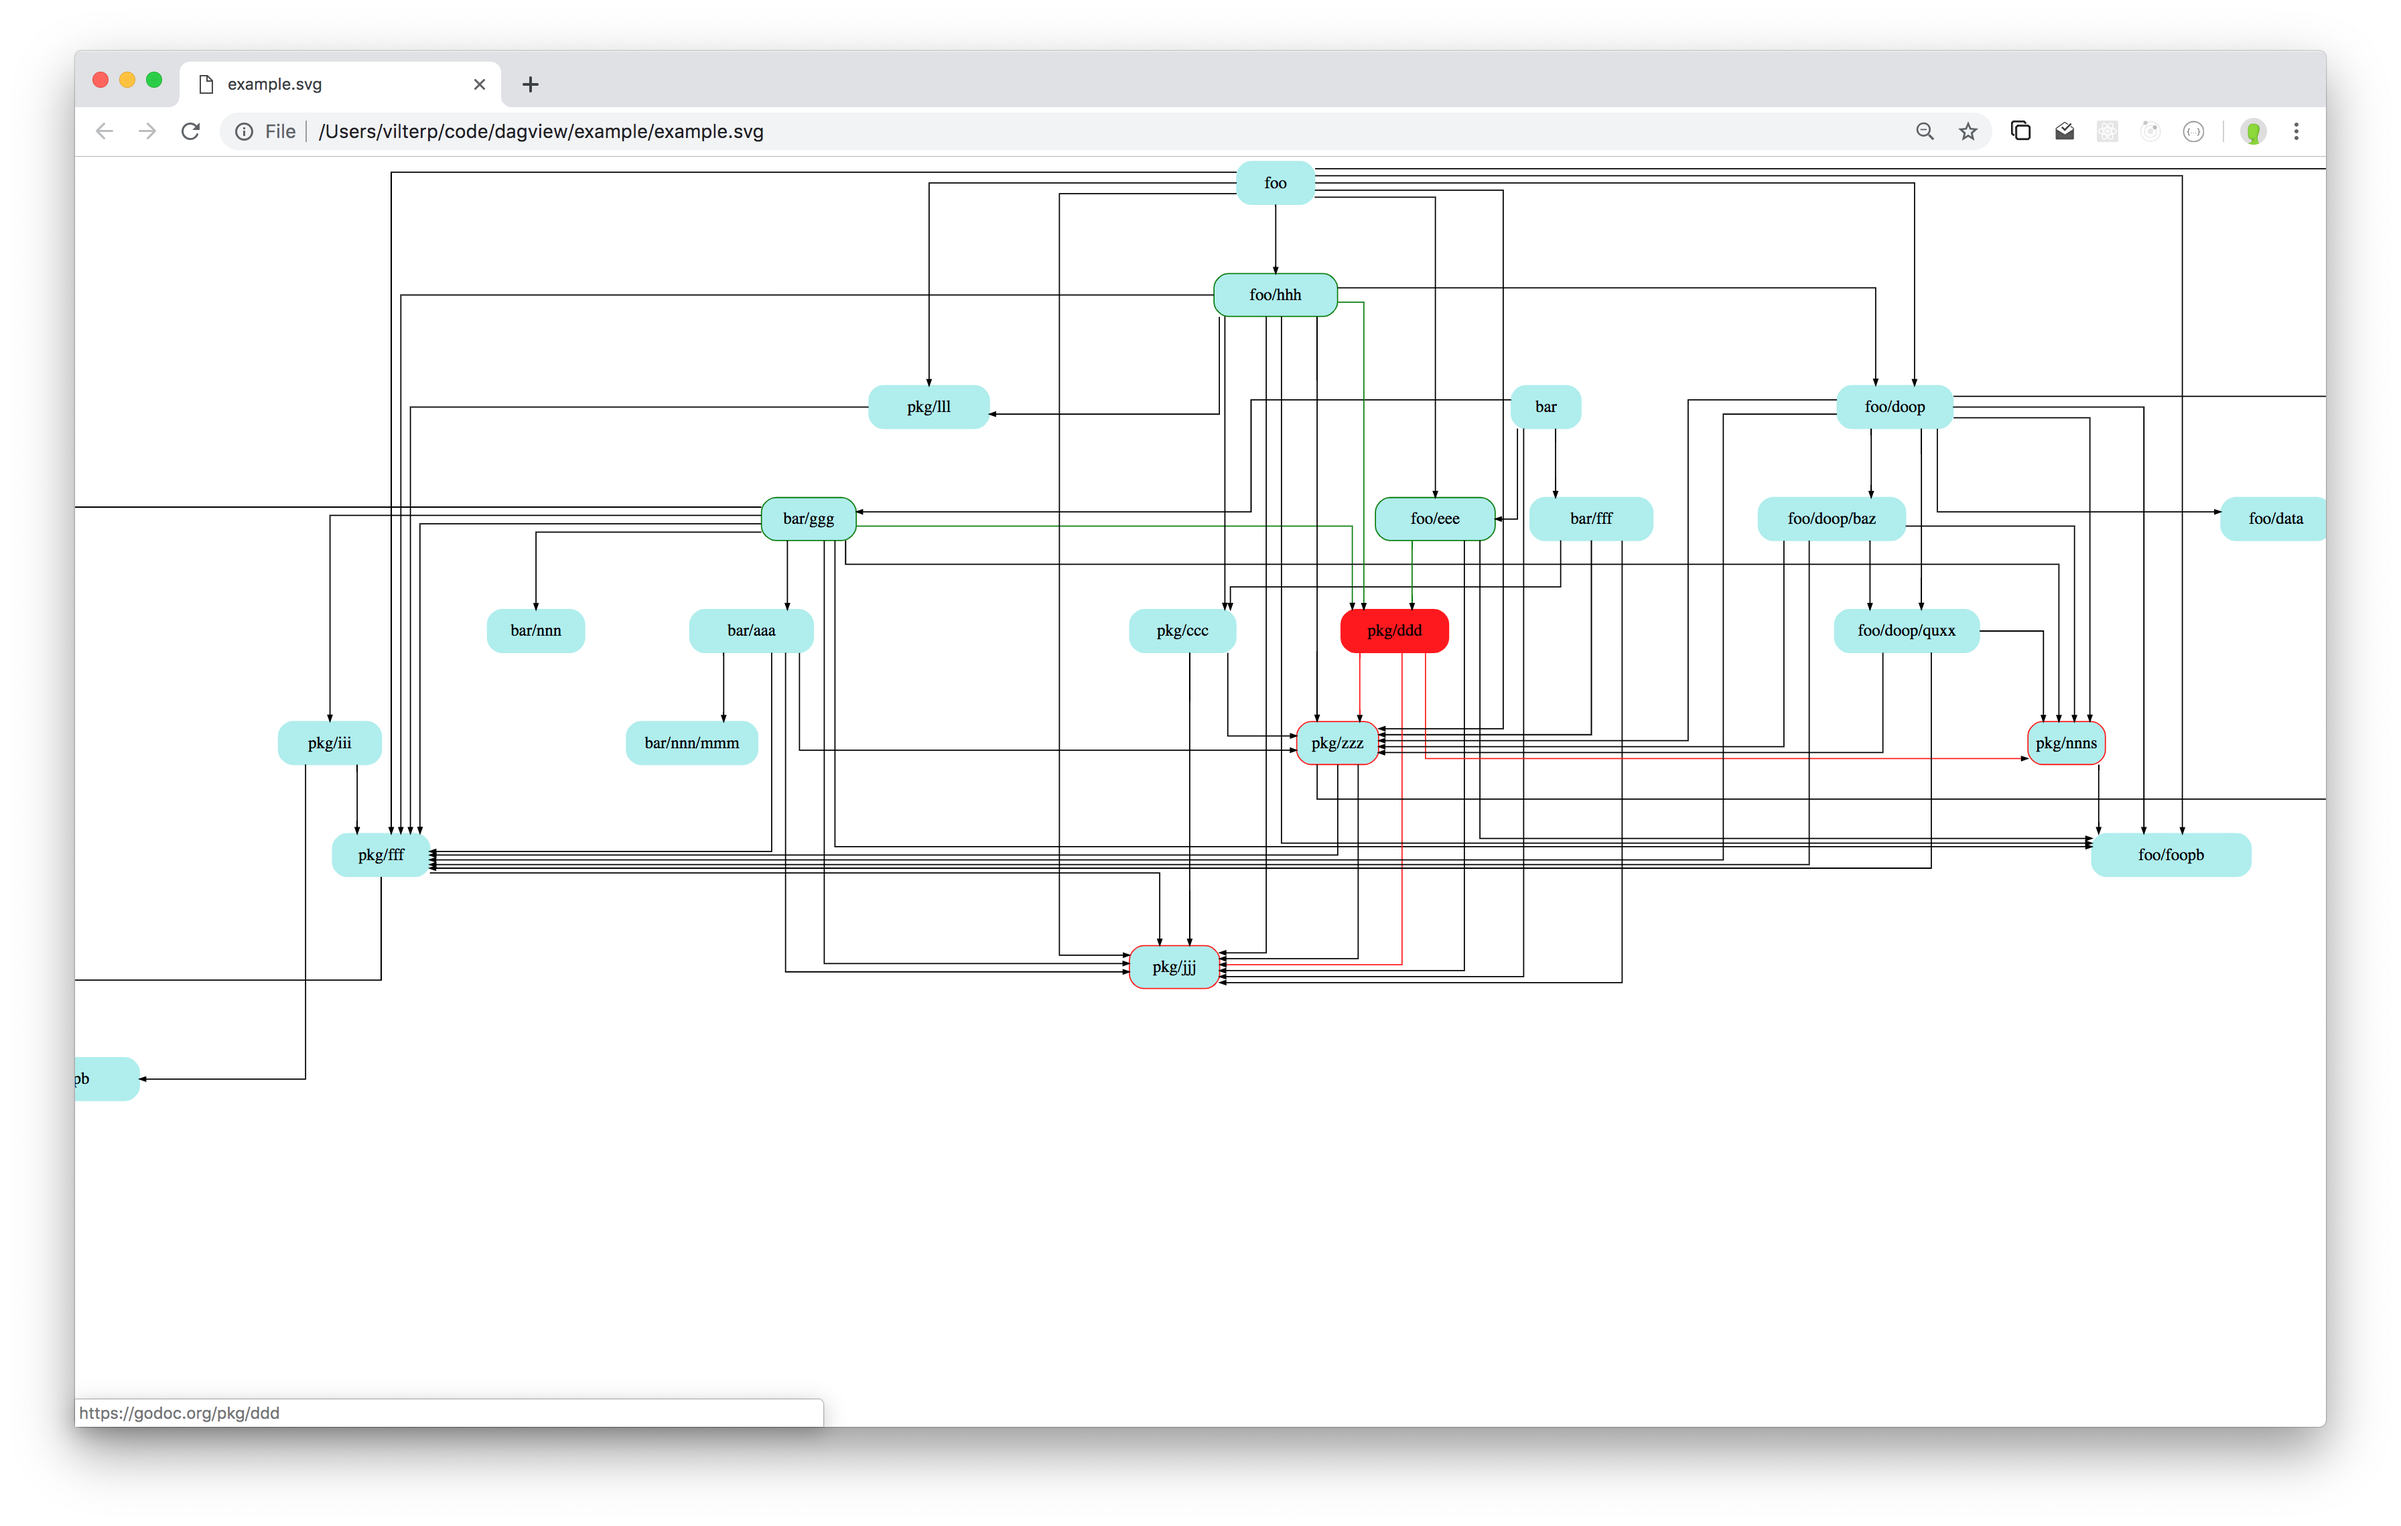
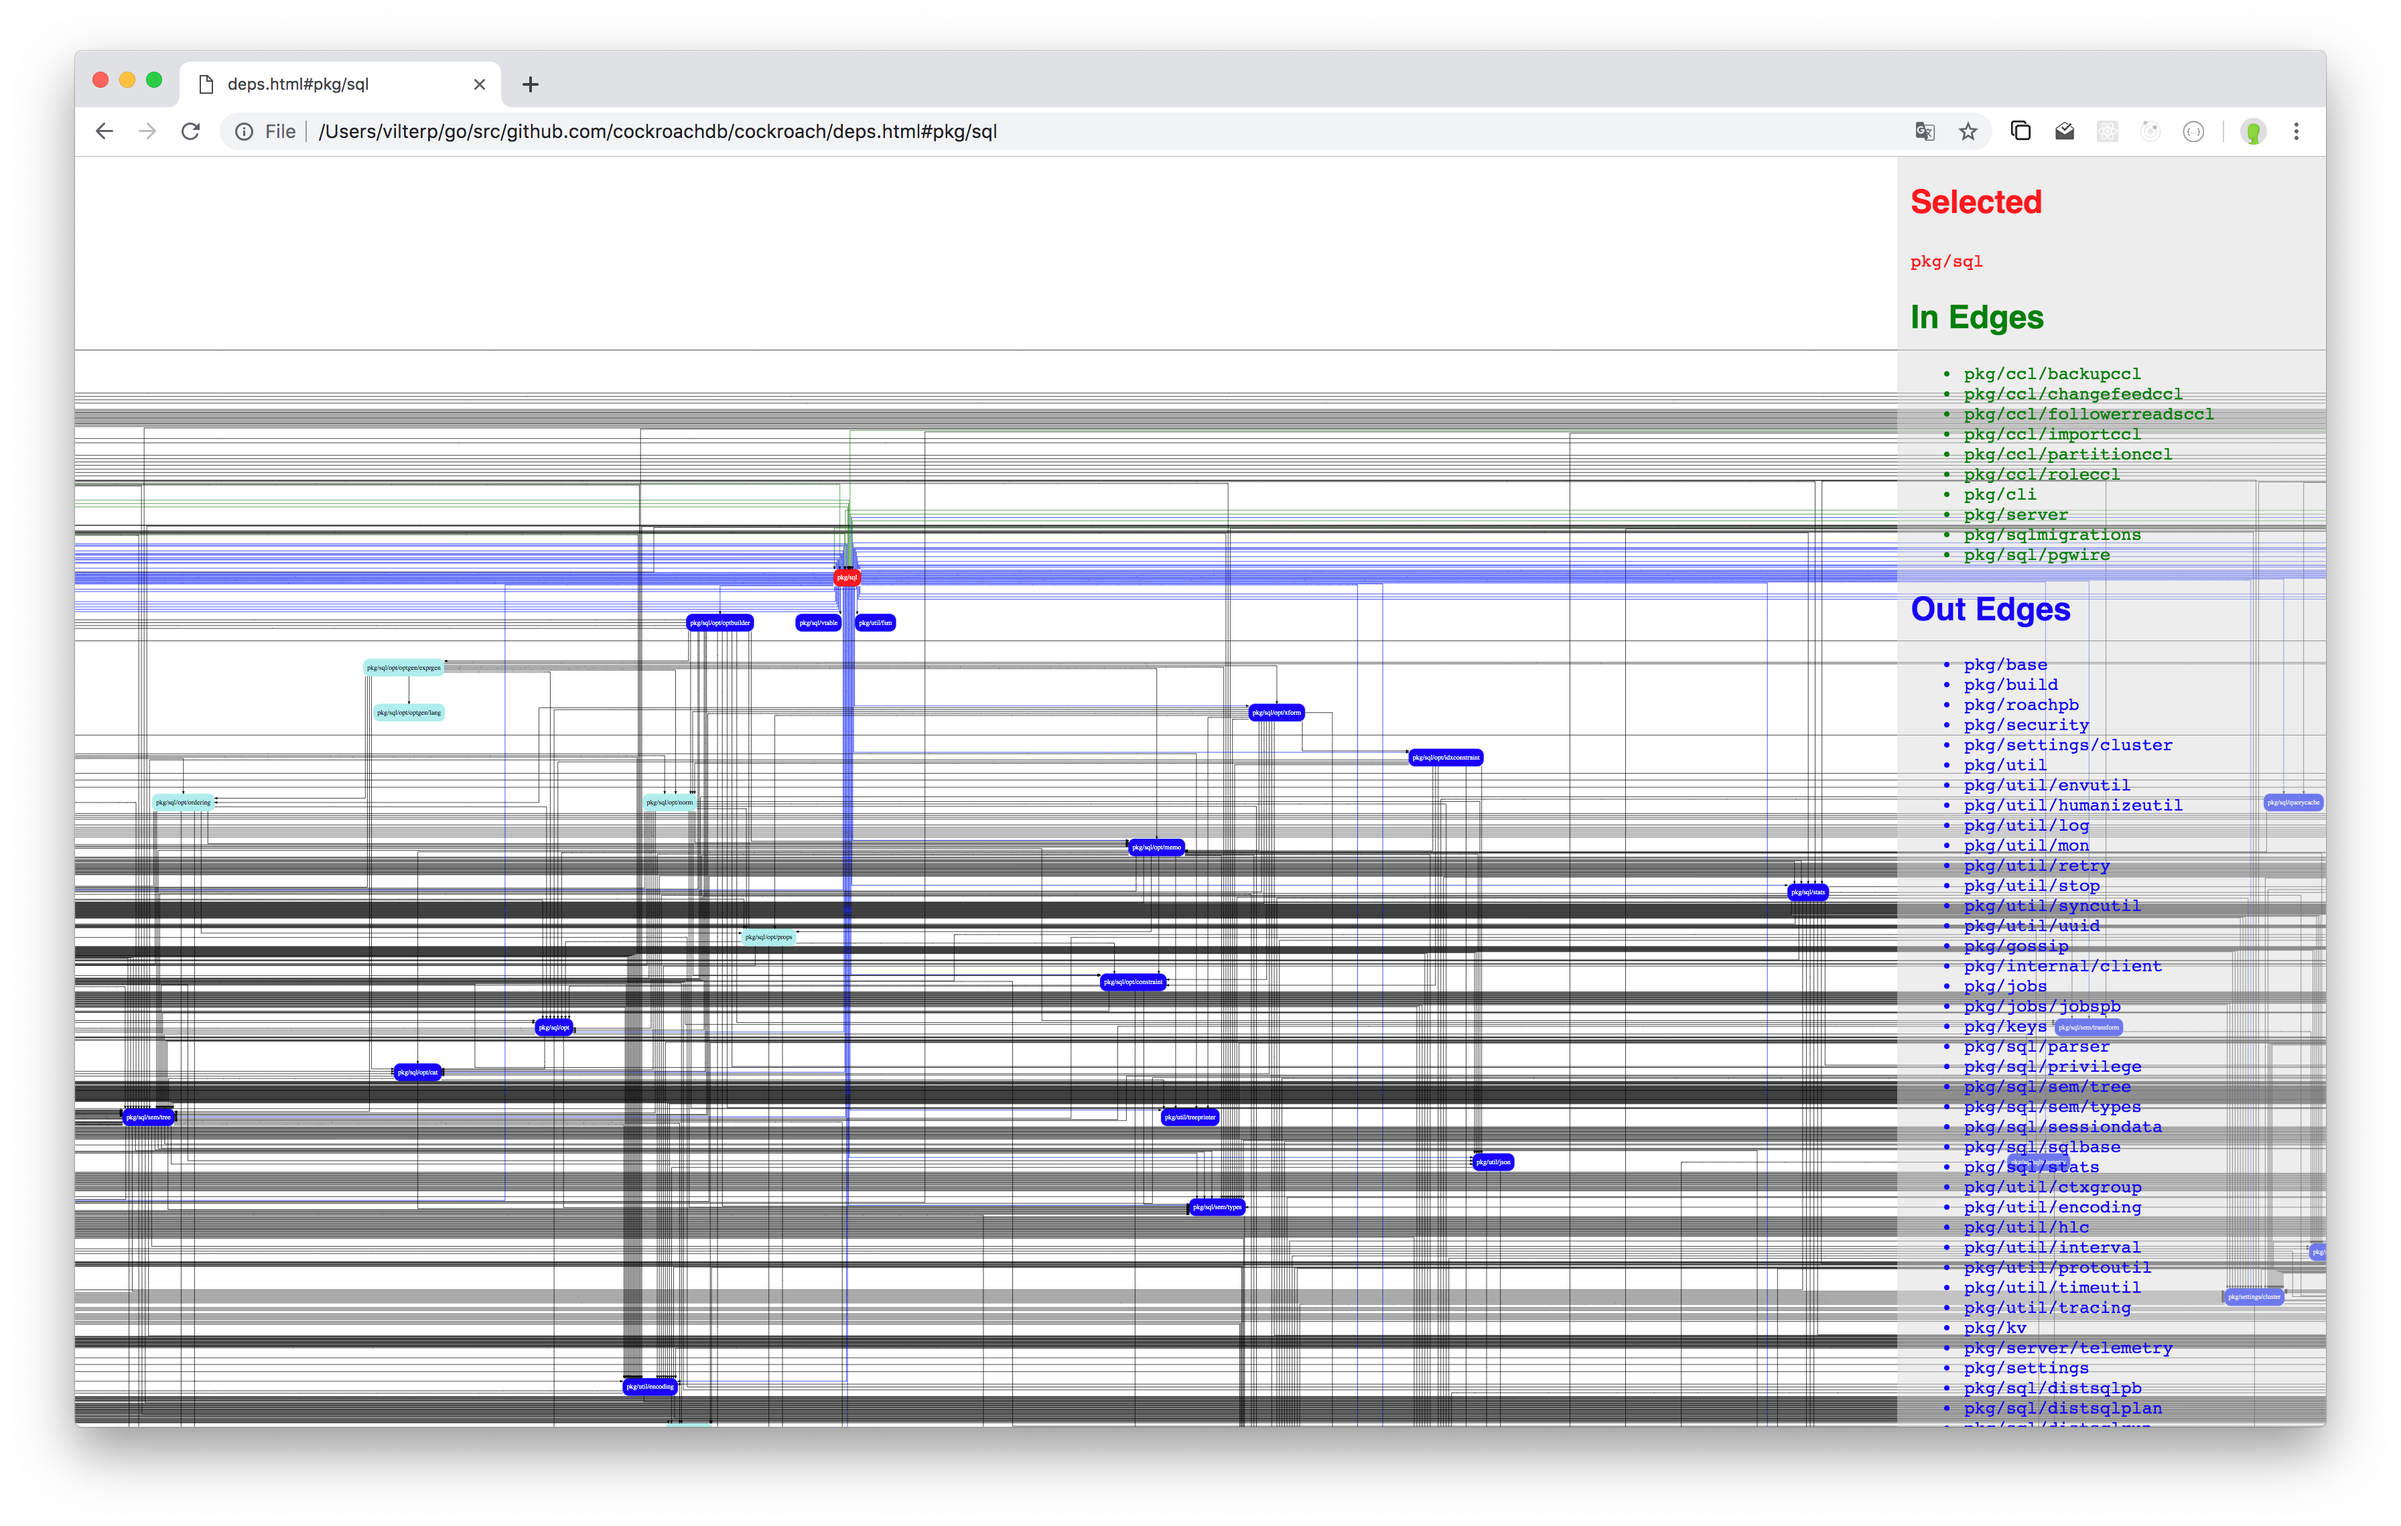
return HTML with (a) pan and zoom and (b) side panel

diff --git a/main.go b/main.go
@@ -19,36 +19,95 @@ func main() {
 	if err != nil {
 		log.Fatal("error parsing XML: ", err)
 	}
-	if err := insertScriptAndStyle(tree); err != nil {
-		log.Fatal("failed inserting script and style: ", err)
-	}
-	_, err = tree.WriteTo(os.Stdout)
+	doc := etree.NewDocument()
+	g := getSvgChild(tree)
+	doc.Element = *g
+	str, err := doc.WriteToString()
 	if err != nil {
-		log.Fatal("error writing output: ", err)
+		log.Fatal(err)
 	}
+	fmt.Printf(template, str, Script, Style)
 }
 
-func insertScriptAndStyle(tree *etree.Document) error {
-	styleEl := etree.NewElement("style")
-	styleEl.AddChild(etree.NewCData(Style))
+const template = `
+<!DOCTYPE html>
+<html>
+	<body style="margin: 0">
+		<svg id="viz" style="width: 100%%; height: 100vh;">
+			%s
+		</svg>
+		<script id="panel-template" type="text/x-handlebars-template">
+			<div id="selected-area">
+				<h2>Selected</h2>
+				<span class="node-name">{{selected}}</span>
+			</div>
+			<div id="in-edges-list">
+				<h2>In Edges</h2>
+				<ul>
+					{{#each inEdges}}
+						<li class="node-name" onClick="updateSelection('{{to}}')">{{to}}</li>
+					{{/each}}
+				</ul>
+			</div>
+			<div id="out-edges-list">
+				<h2>Out Edges</h2>
+				<ul>
+					{{#each outEdges}}
+						<li class="node-name" onClick="updateSelection('{{to}}')">{{to}}</li>
+					{{/each}}
+				</ul>
+			</div>
+		</script>
+		<div id="panel">
+		</div>
+	</body>
+	<script src="https://cdn.jsdelivr.net/npm/svg-pan-zoom@3.5.0/dist/svg-pan-zoom.min.js"></script>
+	<script src="https://cdn.jsdelivr.net/npm/handlebars@4.1.1/dist/handlebars.min.js"></script>
+	<script>
+		svgPanZoom("#viz");
+	</script>
+	<script>
+		%s
+	</script>
+	<style>
+		%s
+	</style>
+</html>
+`
 
-	scriptEl := etree.NewElement("script")
-	scriptEl.AddChild(etree.NewCData(Script))
-
-	for _, c := range tree.Child {
-		switch el := c.(type) {
-		case *etree.Element:
-			if el.Tag == "svg" {
-				el.AddChild(styleEl)
-				el.AddChild(scriptEl)
-				return nil
-			}
-		}
-	}
-	return fmt.Errorf("didn't find an <svg> element at the root")
+func getSvgChild(tree *etree.Document) *etree.Element {
+	path := etree.MustCompilePath("/svg/g")
+	return tree.FindElementPath(path)
 }
 
 const Style = `
+#panel {
+	position: absolute;
+	height: 100vh;
+	right: 0;
+	top: 0;
+	width: 300px;
+	background: rgb(220, 220, 220, 0.5);
+	padding-left: 10px;
+	padding-right: 10px;
+}
+.node-name {
+	font-family: monospace;
+	cursor: pointer;
+}
+h2 {
+	font-family: sans-serif;
+}
+#selected-area {
+	color: red;
+}
+#in-edges-list {
+	color: green;
+}
+#out-edges-list {
+	color: blue;
+}
+
 .node path {
     fill: #afeeee;
     stroke: #afeeee;
@@ -57,11 +116,22 @@ const Style = `
     fill: red;
     stroke: red;
 }
+.node.selected text {
+  fill: white;
+}
 .node.selected-in path {
     stroke: green;
+		fill: green;
+}
+.node.selected-in text {
+  fill: white;
 }
 .node.selected-out path {
-    stroke: red;
+    stroke: blue;
+		fill: blue;
+}
+.node.selected-out text {
+  fill: white;
 }
 
 .edge path {
@@ -71,21 +141,21 @@ const Style = `
     stroke: green;
 }
 .edge.selected-out path {
-    stroke: red;
+    stroke: blue;
 }
 `
 
 const Script = `
+const panelTemplate = Handlebars.compile(document.getElementById("panel-template").innerHTML);
+
 function addListenersToNodes() {
 		const nodes = document.querySelectorAll(".node");
 		nodes.forEach(node => {
-				node.addEventListener("mouseenter", evt => {
+				node.addEventListener("click", evt => {
+						evt.preventDefault();
 						const name = node.querySelector("title").innerHTML;
-						updateSelection(name, node);
+						updateSelection(name);
 				});
-				// node.addEventListener("mouseleave", evt => {
-				//     reset();
-				// });
 		});
 }
 
@@ -141,8 +211,12 @@ function reset() {
 		depNodes = [];
 }
 
-function updateSelection(name, node) {
+function updateSelection(name) {
 		reset();
+
+		history.pushState({ name }, name, "#" + name);
+
+		const node = nodes[name];
 
 		node.classList.add("selected");
 		selectedNode = node;
@@ -165,13 +239,19 @@ function updateSelection(name, node) {
 				depNodes.push(node);
 		});
 
-		console.log(
-				"selected:", name,
-				"out edges:", outFromThis.map(n => n.to),
-				"in edges:", inToThis.map(n => n.to),
-		);
+		document.getElementById("panel").innerHTML = panelTemplate({
+			selected: name,
+			inEdges: inToThis,
+			outEdges: outFromThis,
+		});
 }
 
 const { nodes, outEdges, inEdges } = edgesAndNodesByName();
 addListenersToNodes();
+window.addEventListener("popstate", (evt) => {
+	console.log("popstate", evt.state);
+	if (evt.state.name) {
+		updateSelection(evt.state.name);
+	}
+});
 `

diff --git a/README.md b/README.md
@@ -1,6 +1,6 @@
 # DagView
 
-Takes SVG output from GraphViz, and returns SVG with some JS and CSS
+Takes SVG output from GraphViz, and returns HTML with some JS and CSS
 injected into it such that when you open it in your browser and
 hover over a node:
 
@@ -21,7 +21,7 @@ It looks like this:
 cat myfile.dot \
   | dot -Tsvg \
   | dagview \
-  > out.svg
+  > out.html
 ```
  
 ...and open up `out.svg` in your browser.
